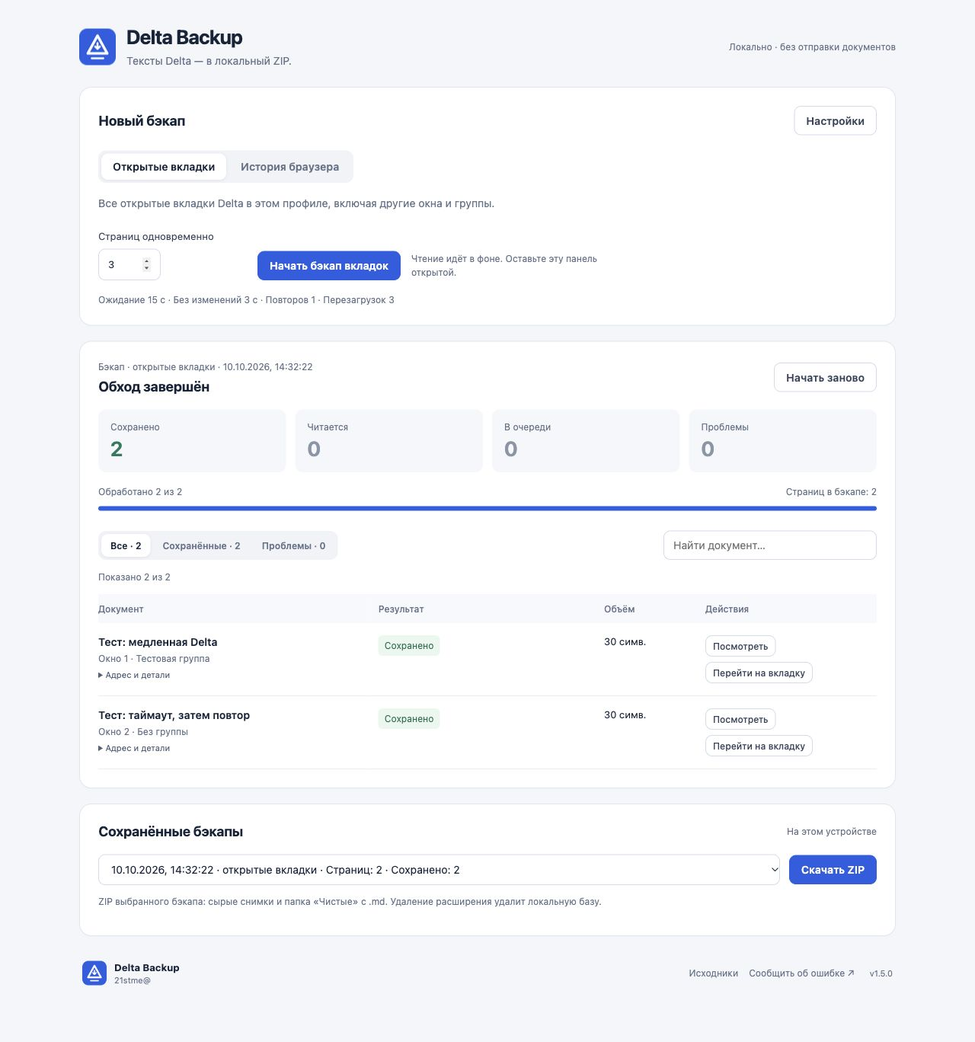
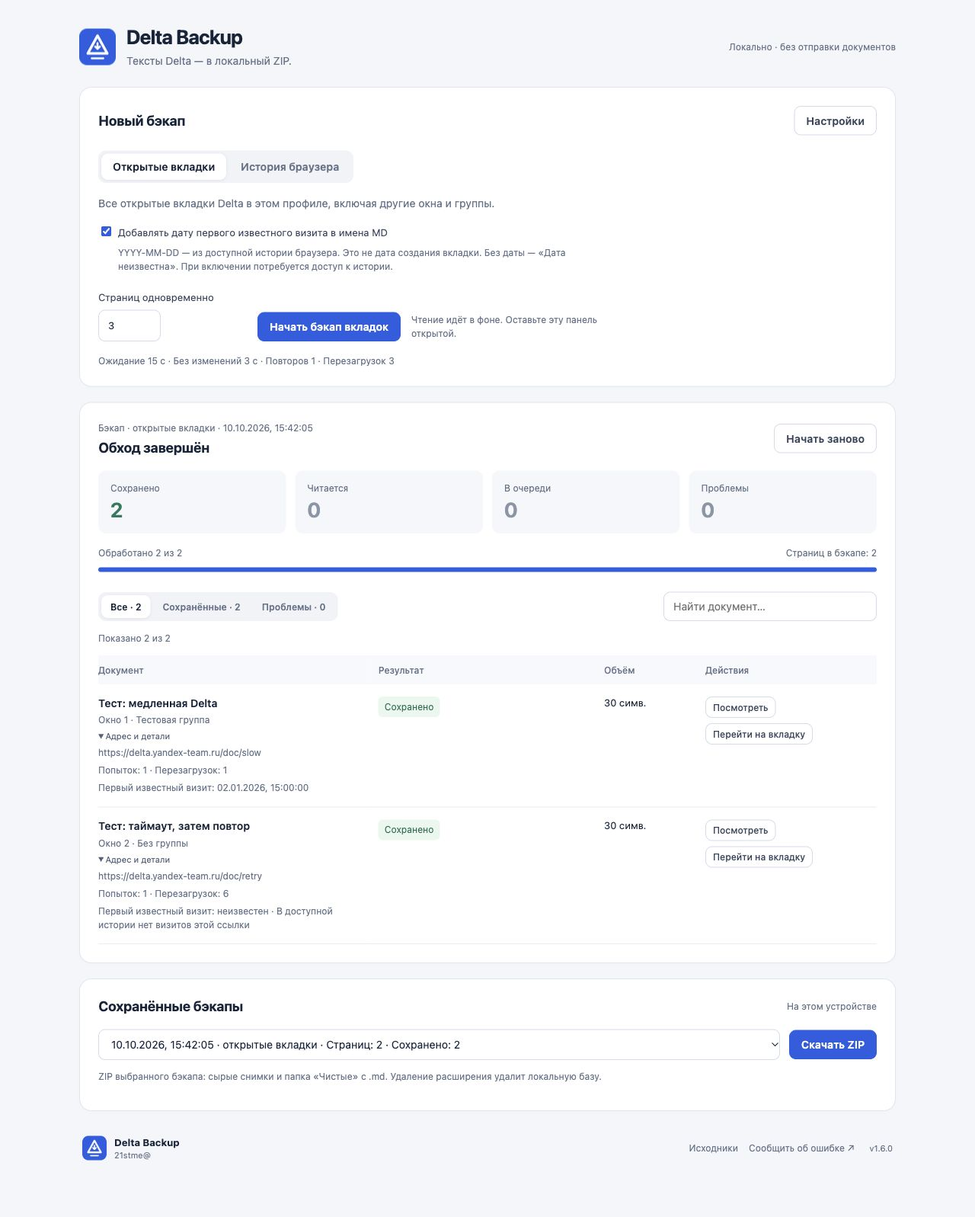
Add optional first-known-visit dates for open tab Markdown filenames

diff --git a/extension/dashboard.js b/extension/dashboard.js
@@ -7,7 +7,7 @@ import { createZip } from './zip.js';
 import { runBatch, createRunWriter } from './queue.js';
 import { restartBackup } from './restart.js';
 import { goToOriginalTab } from './navigation.js';
-import { historyPeriod, discoverHistory, historyEntries, withHistoryTab, historyLimitations, historyLinkFiles } from './browser-history.js';
+import { historyPeriod, discoverHistory, historyEntries, withHistoryTab, historyLimitations, historyLinkFiles, collectFirstVisits, firstVisitLimitations } from './browser-history.js';
 
 const $ = id => document.getElementById(id);
 const api = makeChromeAdapter();
@@ -29,11 +29,13 @@ let historyResult;
 let selectedHistory = new Set();
 let scanningHistory = false;
 let cancelHistory = false;
+let requestingFirstVisitAccess = false;
 const fail = error => { $('error').textContent = error?.message || String(error); };
 
 function getSettings() {
   const settings = {};
   for (const id of settingIds) settings[id] = $(id).value.trim();
+  settings.firstVisitDate = $('firstVisitDate').checked;
   for (const [id, low, high] of [['timeout', 10, 1800], ['stable', 3, 120], ['retries', 0, 5], ['maxReloads', 0, 5], ['concurrency', 1, 10]]) {
     const value = Number(settings[id]);
     if (!Number.isInteger(value) || value < low || value > high) throw new Error(`Проверьте настройку «${$(id).parentElement.firstChild.textContent.trim()}».`);
@@ -49,6 +51,7 @@ function getSettings() {
 }
 
 function showSettings(settings) {
+  $('firstVisitDate').checked = settings.firstVisitDate === true;
   for (const id of settingIds) {
     $(id).value = settings[id] ?? (({ timeout: 15, stable: 3, retries: 1, maxReloads: 3, concurrency: 3 })[id] ?? '');
   }
@@ -56,7 +59,7 @@ function showSettings(settings) {
 
 function updateControls() {
   const counts = pageCounts(run?.entries);
-  const backupRunning = working && activity === 'backup';
+  const backupRunning = working && ['backup', 'dates'].includes(activity);
   const canResume = run && run.state !== 'finished' && nextEntry(run);
   $('openSource').hidden = sourceMode !== 'open_tabs';
   $('historySource').hidden = sourceMode !== 'history';
@@ -64,17 +67,17 @@ function updateControls() {
   $('historyBackup').hidden = sourceMode !== 'history';
   $('sourceTabs').setAttribute('aria-pressed', String(sourceMode === 'open_tabs'));
   $('sourceHistory').setAttribute('aria-pressed', String(sourceMode === 'history'));
-  $('sourceTabs').disabled = $('sourceHistory').disabled = working;
-  $('start').disabled = working;
+  $('sourceTabs').disabled = $('sourceHistory').disabled = working || requestingFirstVisitAccess;
+  $('start').disabled = working || requestingFirstVisitAccess;
   $('restart').hidden = !run || working;
-  $('restart').disabled = working || !run;
+  $('restart').disabled = working || requestingFirstVisitAccess || !run;
   $('pause').hidden = !backupRunning;
   $('pause').disabled = !backupRunning || pauseRequested;
   $('pause').textContent = pauseRequested ? 'Завершаю шаг…' : 'Приостановить';
   $('resume').hidden = working || !canResume;
-  $('resume').disabled = working || !canResume;
+  $('resume').disabled = working || requestingFirstVisitAccess || !canResume;
   $('retryFailed').hidden = working || !counts.retryable;
-  $('retryFailed').disabled = working || !counts.retryable;
+  $('retryFailed').disabled = working || requestingFirstVisitAccess || !counts.retryable;
   $('retryFailed').textContent = `Повторить неудачные · ${counts.retryable}`;
   $('export').disabled = working || !run;
   $('history').disabled = working || !run;
@@ -92,6 +95,7 @@ function updateControls() {
   for (const id of ['historyRange', 'historyFrom', 'historyTo']) $(id).disabled = working;
   for (const checkbox of $('historyLinks').querySelectorAll('input')) checkbox.disabled = working;
   for (const id of settingIds) $(id).disabled = working;
+  $('firstVisitDate').disabled = working || requestingFirstVisitAccess;
   $('settingsSummary').textContent = `Ожидание ${$('timeout').value || '—'} с · Без изменений ${$('stable').value || '—'} с · Повторов ${$('retries').value || '0'} · Перезагрузок ${$('maxReloads').value || '0'}`;
   for (const [id, value] of [['filterAll', 'all'], ['filterSaved', 'saved'], ['filterProblems', 'problems']]) {
     $(id).disabled = !run;
@@ -116,7 +120,7 @@ function render(full = true) {
   const currentOption = [...$('history').options].find(option => option.value === run.id);
   if (currentOption) currentOption.textContent = backupLabel(run);
   $('runContext').textContent = `Бэкап · ${run.source === 'history' ? 'из истории' : 'открытые вкладки'} · ${new Date(run.createdAt).toLocaleString('ru-RU')}`;
-  $('status').textContent = activity === 'export' ? 'Готовлю ZIP' : activity === 'backup' ? (pauseRequested ? 'Завершаю текущий шаг…' : 'Читаю страницы Delta') : run.state === 'finished' ? 'Обход завершён' : 'Бэкап приостановлен';
+  $('status').textContent = activity === 'export' ? 'Готовлю ZIP' : activity === 'dates' ? (pauseRequested ? 'Завершаю поиск дат…' : 'Ищу даты первых известных визитов') : activity === 'backup' ? (pauseRequested ? 'Завершаю текущий шаг…' : 'Читаю страницы Delta') : run.state === 'finished' ? 'Обход завершён' : 'Бэкап приостановлен';
   for (const [id, field] of [['countSaved', 'saved'], ['countReading', 'reading'], ['countPending', 'pending'], ['countProblems', 'problems']]) {
     $(id).textContent = counts[field].toLocaleString('ru-RU');
     $(id).parentElement.classList.toggle('is-zero', counts[field] === 0);
@@ -125,7 +129,7 @@ function render(full = true) {
   $('runTotal').textContent = `Страниц в бэкапе: ${counts.total}`;
   $('runProgress').max = counts.total || 1;
   $('runProgress').value = counts.processed;
-  $('liveDetails').hidden = activity !== 'backup' || !detail;
+  $('liveDetails').hidden = !['backup', 'dates'].includes(activity) || !detail;
   $('progressDetails').textContent = detail;
   $('filterAll').textContent = `Все · ${counts.total}`;
   $('filterSaved').textContent = `Сохранённые · ${counts.saved}`;
@@ -146,6 +150,13 @@ function render(full = true) {
     const url = document.createElement('small'); url.className = 'document-url'; url.textContent = entry.url;
     const attempts = document.createElement('small'); attempts.textContent = `Попыток: ${entry.attempts || 0} · Перезагрузок: ${entry.reloadEvents?.length || 0}`;
     rowDetails.append(summary, url, attempts);
+    if ((entry.source || run.source) !== 'history' && run.settings.firstVisitDate) {
+      const visit = document.createElement('small');
+      const date = entry.firstVisitTime ? new Date(entry.firstVisitTime).toLocaleString('ru-RU') : 'неизвестен';
+      const reason = firstVisitLimitations[entry.firstVisitLookup?.status];
+      visit.textContent = `Первый известный визит: ${date}${reason ? ' · ' + reason : ''}`;
+      rowDetails.append(visit);
+    }
     const key = `${run.id}/${entry.id || entry.tabId || entry.index}`;
     rowDetails.open = expandedRows.has(key);
     rowDetails.addEventListener('toggle', () => { if (rowDetails.open) expandedRows.add(key); else expandedRows.delete(key); });
@@ -279,8 +290,26 @@ async function runLoop() {
   }
 }
 
+async function prepareFirstVisits() {
+  if (run.source === 'history' || !run.settings.firstVisitDate) return;
+  activity = 'dates'; detail = ''; render();
+  let allowed = false;
+  try { allowed = await chrome.permissions.contains({ permissions: ['history'] }); } catch {}
+  const getVisits = allowed && typeof chrome.history?.getVisits === 'function' ? props => chrome.history.getVisits(props) : undefined;
+  const result = await collectFirstVisits(run.entries, getVisits, {
+    concurrency: run.settings.concurrency, cancelled: () => pauseRequested,
+    unavailableReason: allowed ? 'api_unavailable' : 'permission_denied',
+    onProgress: async progress => { detail = `Даты проверены: ${progress.completed} из ${progress.total} уникальных ссылок`; render(false); }
+  });
+  run.entries = result.entries;
+  const { entries, ...summary } = result;
+  run.firstVisitDates = summary;
+  await saveRun(run);
+  activity = 'backup'; detail = ''; render();
+}
+
 async function begin(mode) {
-  if (working) return;
+  if (working || requestingFirstVisitAccess) return;
   $('error').textContent = ''; $('archiveStatus').textContent = ''; pauseRequested = false; working = true; activity = 'backup'; updateControls();
   try {
     await withLock(async () => {
@@ -316,7 +345,7 @@ async function begin(mode) {
         for (const entry of run.entries) if (entry.status === 'waiting') { entry.status = 'pending'; entry.attempts = Math.max(0, entry.attempts - 1); }
       }
       if (['new', 'restart', 'history'].includes(mode)) resetResultView();
-      showSettings(run.settings); await refreshHistory(); await runLoop();
+      showSettings(run.settings); await refreshHistory(); await prepareFirstVisits(); await runLoop();
     });
   } catch (error) {
     fail(error);
@@ -453,6 +482,15 @@ $('settingsToggle').addEventListener('click', () => {
 });
 $('sourceTabs').addEventListener('click', () => { sourceMode = 'open_tabs'; updateControls(); });
 $('sourceHistory').addEventListener('click', () => { sourceMode = 'history'; updateControls(); });
+$('firstVisitDate').addEventListener('change', async () => {
+  if (!$('firstVisitDate').checked) return;
+  requestingFirstVisitAccess = true; updateControls();
+  try {
+    // Request directly from the user gesture, before any history API call.
+    if (!await chrome.permissions.request({ permissions: ['history'] })) throw new Error('Доступ к истории не выдан. Даты первых визитов выключены; бэкап вкладок доступен.');
+  } catch (error) { $('firstVisitDate').checked = false; fail(error); }
+  finally { requestingFirstVisitAccess = false; updateControls(); }
+});
 for (const [id, filter] of [['filterAll', 'all'], ['filterSaved', 'saved'], ['filterProblems', 'problems']]) $(id).addEventListener('click', () => { resultFilter = filter; render(); });
 $('resultSearch').addEventListener('input', () => { searchQuery = $('resultSearch').value; render(); });
 for (const id of settingIds) $(id).addEventListener('input', updateControls);
@@ -476,7 +514,7 @@ $('history').addEventListener('change', async () => {
 async function init() {
   $('extensionVersion').textContent = `v${VERSION}`;
   const runs = await listRuns();
-  if (runs.length) run = runs[0];
+  if (runs.length) { run = runs[0]; showSettings(run.settings); }
   await refreshHistory(); render();
   try { if (await chrome.permissions.contains({ permissions: ['tabGroups'] })) $('groups').textContent = 'Названия групп разрешены'; } catch {}
 }

diff --git a/extension/dashboard.html b/extension/dashboard.html
@@ -16,7 +16,7 @@
     <section class="card launch-card" aria-labelledby="launchTitle">
       <div class="section-heading"><h2 id="launchTitle">Новый бэкап</h2><button id="settingsToggle" class="secondary" aria-expanded="false" aria-controls="settingsPanel">Настройки</button></div>
       <div class="source-tabs" role="group" aria-label="Источник нового бэкапа"><button id="sourceTabs" aria-pressed="true">Открытые вкладки</button><button id="sourceHistory" aria-pressed="false">История браузера</button></div>
-      <div id="openSource"><p class="source-description">Все открытые вкладки Delta в этом профиле, включая другие окна и группы.</p></div>
+      <div id="openSource"><p class="source-description">Все открытые вкладки Delta в этом профиле, включая другие окна и группы.</p><label class="date-option"><span><input id="firstVisitDate" type="checkbox">Добавлять дату первого известного визита в имена MD</span><small>YYYY-MM-DD — из доступной истории браузера. Это не дата создания вкладки. Без даты — «Дата неизвестна». При включении потребуется доступ к истории.</small></label></div>
       <div id="historySource" hidden>
         <p class="source-description">Найдите ссылки и выберите документы. Сохраняется текущий текст, а не версия на дату визита.</p>
         <div class="history-search"><label>Период истории<select id="historyRange"><option value="all">Вся доступная история</option><option value="7">Последние 7 дней</option><option value="30">Последние 30 дней</option><option value="90">Последние 90 дней</option><option value="custom">Свой период</option></select></label><button id="historyScan" class="secondary">Найти ссылки Delta</button><button id="historySearchStop" class="secondary" hidden disabled>Остановить поиск</button></div>
@@ -24,7 +24,7 @@
         <p id="historySummary" class="hint" role="status">Поиск ещё не запускался.</p>
         <div id="historySelection" class="actions" hidden><button id="historySelectAll" class="text-button" disabled>Выбрать все</button><button id="historySelectNone" class="text-button" disabled>Снять выбор</button><button id="historyExport" class="text-button" disabled>Выгрузить список URL</button></div>
         <div id="historyLinks" class="history-links"></div><p id="historyDownloadStatus" class="hint" role="status"></p>
-        <details class="compact-help"><summary>Доступ к истории</summary><p class="hint">При поиске браузер запрашивает доступ к истории профиля. Расширение сохраняет только ссылки точного домена delta.yandex-team.ru. Для открытых вкладок это разрешение не требуется.</p></details>
+        <details class="compact-help"><summary>Доступ к истории</summary><p class="hint">При поиске браузер запрашивает доступ к истории профиля. Расширение сохраняет только ссылки точного домена delta.yandex-team.ru. Для открытых вкладок это разрешение требуется только при включённой дате первого известного визита.</p></details>
       </div>
       <div class="launch-row"><label class="concurrency-field">Страниц одновременно<input id="concurrency" type="number" value="3" min="1" max="10"></label><div class="launch-action"><button id="start">Начать бэкап вкладок</button><button id="historyBackup" hidden disabled>Бэкап выбранных ссылок</button><span class="hint">Чтение идёт в фоне. Оставьте эту панель открытой.</span></div></div>
       <p id="settingsSummary" class="settings-summary"></p>
@@ -70,7 +70,7 @@
         <a href="https://github.com/21stme/delta-backup" target="_blank" rel="noopener noreferrer">Исходники</a>
         <a href="https://github.com/21stme/delta-backup/issues/new/choose" target="_blank" rel="noopener noreferrer">Сообщить об ошибке <span aria-hidden="true">↗</span></a>
       </nav>
-      <span class="contact-version" id="extensionVersion">v1.5.1</span>
+      <span class="contact-version" id="extensionVersion">v1.6.0</span>
     </footer>
   </main>
   <script type="module" src="dashboard.js"></script>

diff --git a/extension/browser-history.js b/extension/browser-history.js
@@ -119,3 +119,64 @@ export function historyLinkFiles(result) {
     { name: 'README.txt', data: 'Ссылки Delta из доступной истории браузера.\nПериод и полнота поиска: history-links.json.\nЭто список URL, а не сохранённое содержимое страниц. Для получения текста запустите бэкап выбранных ссылок.\nИстория не хранит прошлые версии документа; бэкап получает текущий текст.\n' }
   ];
 }
+
+// Only query the exact URLs of this inventory, before backup reads or reloads.
+// This is the earliest available visit, not the creation time of the current tab.
+export async function collectFirstVisits(entries, getVisits, options = {}) {
+  const { concurrency = 3, callTimeoutMs = 15000, maxDurationMs = 120000,
+    cancelled = () => false, onProgress = async () => {}, now = Date.now,
+    unavailableReason = 'api_unavailable' } = options;
+  const started = now();
+  const results = new Map();
+  const known = entry => ['found', 'not_found'].includes(entry.firstVisitLookup?.status);
+  for (const entry of entries) if (known(entry)) results.set(entry.url, {
+    firstVisitTime: entry.firstVisitTime, firstVisitLookup: structuredClone(entry.firstVisitLookup)
+  });
+  const urls = [...new Set(entries.filter(entry => !results.has(entry.url)).map(entry => entry.url))];
+  let cursor = 0, completed = 0, calls = 0;
+  await Promise.all(Array.from({ length: Math.min(urls.length, Math.max(1, Math.min(10, Math.floor(concurrency) || 1))) }, async () => {
+    while (cursor < urls.length) {
+      const url = urls[cursor++];
+      let status, firstVisitTime, timer;
+      if (!isDelta(url)) status = 'invalid_url';
+      else if (cancelled()) status = 'cancelled';
+      else if (now() - started >= maxDurationMs) status = 'time_limit';
+      else if (typeof getVisits !== 'function') status = unavailableReason;
+      else {
+        calls++;
+        try {
+          const remaining = maxDurationMs - (now() - started);
+          const deadlineStatus = remaining <= callTimeoutMs ? 'time_limit' : 'timeout';
+          const visits = await Promise.race([
+            Promise.resolve().then(() => getVisits({ url })),
+            new Promise((resolve, reject) => { timer = setTimeout(() => reject(new Error(deadlineStatus)), Math.max(1, Math.min(callTimeoutMs, remaining))); })
+          ]);
+          if (!Array.isArray(visits)) throw new Error('invalid_response');
+          for (const visit of visits) {
+            const time = visit?.visitTime;
+            if (Number.isFinite(time) && time > 0 && time <= started && Number.isFinite(new Date(time).getTime()) && (!firstVisitTime || time < firstVisitTime)) firstVisitTime = time;
+          }
+          status = firstVisitTime ? 'found' : visits.length ? 'invalid_response' : 'not_found';
+        } catch (error) {
+          status = ['timeout', 'time_limit', 'invalid_response'].includes(error?.message) ? error.message : 'api_error';
+        } finally { clearTimeout(timer); }
+      }
+      results.set(url, { firstVisitTime, firstVisitLookup: { status, checkedAt: new Date(now()).toISOString(), source: 'available_browser_history' } });
+      completed++;
+      await onProgress({ completed, total: urls.length });
+    }
+  }));
+  const enriched = entries.map(entry => ({ ...entry, ...results.get(entry.url) }));
+  return {
+    entries: enriched, checkedAt: new Date(now()).toISOString(), calls,
+    coverage: enriched.every(known) ? 'complete' : 'partial',
+    scope: 'earliest available visit for exact open-tab URLs; not tab creation time or guaranteed first-ever visit'
+  };
+}
+
+export const firstVisitLimitations = {
+  not_found: 'В доступной истории нет визитов этой ссылки', invalid_response: 'История не вернула корректное время визита',
+  api_error: 'Не удалось прочитать визиты этой ссылки', api_unavailable: 'Браузер не предоставляет API визитов',
+  permission_denied: 'Нет разрешения на чтение истории', timeout: 'Истёк лимит запроса визитов',
+  time_limit: 'Истёк общий лимит поиска дат', cancelled: 'Поиск даты приостановлен', invalid_url: 'Адрес не относится к Delta'
+};

diff --git a/extension/archive.js b/extension/archive.js
@@ -1,8 +1,8 @@
 import { VERSION, capturePath, safeName, statusLabel, reasons } from './core.js';
 
-function historyVisitDate(lastVisitTime) {
-  if (!Number.isFinite(lastVisitTime) || lastVisitTime <= 0) return 'Дата неизвестна';
-  const date = new Date(lastVisitTime);
+function visitDate(visitTime) {
+  if (!Number.isFinite(visitTime) || visitTime <= 0) return 'Дата неизвестна';
+  const date = new Date(visitTime);
   const year = date.getFullYear();
   if (!Number.isFinite(date.getTime()) || year > 9999) return 'Дата неизвестна';
   // Use the same browser-local calendar day as the history list, not UTC.
@@ -46,7 +46,8 @@ export async function archiveFiles(run, readCapture) {
       }
       report.entries[index].textFile = `${folder}/${textFile}`;
       const fromHistory = (entry.source || run.source) === 'history';
-      const clean = cleanTextFile(capture.text, entry.title, usedCleanNames, fromHistory ? historyVisitDate(entry.lastVisitTime) : '');
+      const datePrefix = fromHistory ? visitDate(entry.lastVisitTime) : run.settings?.firstVisitDate ? visitDate(entry.firstVisitTime) : '';
+      const clean = cleanTextFile(capture.text, entry.title, usedCleanNames, datePrefix);
       files.push({ name: clean.name, data: clean.data });
       report.entries[index].cleanFile = clean.name;
       report.entries[index].cleanTitle = clean.title;

diff --git a/extension/dashboard.css b/extension/dashboard.css
@@ -26,4 +26,5 @@ details { margin-top: 16px; } summary { cursor: pointer; color: #53617a; font-si
 @media(max-width:760px) { main { padding: 0 14px 24px; margin-top: 20px; } .card { padding: 18px; } .privacy-note { display: none; } .stats { grid-template-columns: repeat(2,1fr); } .section-heading { align-items: flex-start; flex-wrap: wrap; } .launch-row { flex-wrap: wrap; gap: 16px; } .concurrency-field { flex-basis: 100%; } .launch-action { align-items: flex-start; } .grid { grid-template-columns: 1fr; } .results-toolbar { align-items: stretch; flex-direction: column; } #resultSearch { max-width: none; } .filter-tabs { align-self: flex-start; } .history-search label { width: 100%; min-width: 0; } .contact-links { order: 3; width: 100%; } }
 
 .stat.is-zero strong { color: #8a95a7; }
+.date-option { max-width: 640px; margin-bottom: 16px; } .date-option span { display: flex; align-items: baseline; } .date-option small { margin-left: 26px; }
 @media(max-width:760px) { .source-tabs { display: flex; } .source-tabs button { flex: 1; padding: 8px 9px; font-size: 12px; } }

diff --git a/extension/core.js b/extension/core.js
@@ -1,5 +1,5 @@
 export const ORIGIN = 'https://delta.yandex-team.ru';
-export const VERSION = '1.5.1';
+export const VERSION = '1.6.0';
 export function isDelta(url) {
   try { return new URL(url).origin === ORIGIN; } catch { return false; }
 }

diff --git a/docs/usage.md b/docs/usage.md
@@ -20,6 +20,7 @@
 | Повторы после прохода | 1 | Дополнительная попытка для неуспешных страниц после первого прохода |
 | Перезагрузки | 3 | Максимум на попытку при затянувшейся загрузке или просьбе Delta |
 | Страниц одновременно | 3 | Число параллельных чтений, от 1 до 10 |
+| Дата первого известного визита | Выключена | Префикс YYYY-MM-DD в именах Markdown открытых вкладок, по доступной истории |
 
 При продолжающейся загрузке с заводскими настройками: 15 с → reload → 15 с → reload → 15 с → reload → 15 с → таймаут. Повтор после первого прохода начинает новую попытку. Пустой или меняющийся текст без индикатора загрузки по таймеру автоматически не перезагружается.
 
@@ -44,6 +45,16 @@ CSS-селекторы основного текста, готовности и 
 
 Для чтения каждого URL создаётся временная фоновая вкладка. После попытки она закрывается, если сохранила исходный URL и не была активирована или закреплена вами. При сбое или закрытии панели временные вкладки могут остаться. Открытие страниц создаёт новые обычные визиты в истории. История не удаляется и не переписывается.
 
+## Даты открытых вкладок
+
+В режиме **«Открытые вкладки»** включите **«Добавлять дату первого известного визита в имена MD»** перед запуском нового бэкапа, продолжением или ручным повтором. Разрешение `history` запрашивается по вашему нажатию; при отказе опция выключается, обычный бэкап остаётся доступен.
+
+До чтения и перезагрузок расширение вызывает `history.getVisits()` только для точных URL открытых вкладок Delta, без общего поиска истории. Одинаковые URL используют один запрос, но каждая вкладка сохраняется отдельно. Query и fragment не объединяются. Выбирается минимальное корректное время из доступных визитов. Это **первый известный визит**, не гарантированное первое посещение за всё время и не время создания нынешней вкладки. Удалённые/устаревшие записи и другой профиль недоступны.
+
+Даты и причины отсутствия сохраняются в бэкапе (`firstVisitTime`, `firstVisitLookup`, `firstVisitDates`) и показываются в **«Адрес и детали»**. Запрос ограничен 15 секундами, весь этап — 120 секундами, параллельность — настройкой «Страниц одновременно». Ошибка, отозванное разрешение или таймаут поиска даты не препятствуют чтению текста: имя получает «Дата неизвестна». Пауза прекращает новые запросы; найденные даты и проверенное отсутствие визитов сохраняются при продолжении/повторе. Неуспешные запросы можно повторить при продолжении или ручном повторе страниц.
+
+Опция записывается в параметры выбранного бэкапа. Экспорт использует его сохранённые параметры и даты без нового чтения истории. Для старого завершённого бэкапа без дат запустите **«Начать заново»** с включённой опцией; прежний архив останется доступен.
+
 ## Чтение и сохранение
 
 Расширение пытается получить полную доступную модель Ace, Monaco или CodeMirror 5. При невозможности используется текст страницы. Прокрутка и раскрытие блоков отсутствуют; скрытые/виртуализированные строки, недоступные iframe и модели могут ограничить извлечение. Для единственного соответствующего Ace сохранение полной модели не дублирует отрисованные строки.
@@ -54,6 +65,6 @@ CSS-селекторы основного текста, готовности и 
 
 ## ZIP
 
-У каждой исходной вкладки собственная сырая папка; одинаковые URL вкладок не удаляются. В «Чистые» каждому доступному снимку соответствует один `.md` с точным сохранённым текстом. Для истории имя начинается с даты последнего визита: `YYYY-MM-DD - первая строка.md`. Дата берётся из `lastVisitTime`, сохранённого при поиске ссылок, по часовому поясу браузера; время бэкапа и его служебное открытие страницы её не заменяют. При неизвестной/некорректной дате используется префикс `Дата неизвестна -`. Для открытых вкладок дата в имя не добавляется. Небезопасные символы имени заменяются, длинные имена ограничиваются; совпадения без учёта регистра и после Unicode NFC получают номера. Для пустого текста используется название вкладки или «Без названия». `cleanFile` в `report.json` связывает Markdown с исходной записью.
+У каждой исходной вкладки собственная сырая папка; одинаковые URL вкладок не удаляются. В «Чистые» каждому доступному снимку соответствует один `.md` с точным сохранённым текстом. Для истории имя начинается с даты последнего визита: `YYYY-MM-DD - первая строка.md`. Дата берётся из `lastVisitTime`, сохранённого при поиске ссылок, по часовому поясу браузера; время бэкапа и его служебное открытие страницы её не заменяют. При неизвестной/некорректной дате используется префикс `Дата неизвестна -`. Для открытых вкладок дата первого известного визита добавляется только с включённой опцией: `YYYY-MM-DD - первая строка.md`, в часовом поясе браузера; без даты — «Дата неизвестна». Без опции, в том числе в старых бэкапах, сохраняются прежние имена. Небезопасные символы имени заменяются, длинные имена ограничиваются; совпадения без учёта регистра и после Unicode NFC получают номера. Для пустого текста используется название вкладки или «Без названия». `cleanFile` в `report.json` связывает Markdown с исходной записью.
 
 ZIP формируется в памяти, без сжатия и ZIP64: максимум около 4 ГБ и 65 535 файлов, память может закончиться раньше. `partial.txt` и `partial:true` обозначают незавершённую процедуру, а не доказанную обрезку текста. Экспорт не предназначен для обратного импорта в Delta.

diff --git a/README.md b/README.md
@@ -1,6 +1,6 @@
 # <img src="docs/images/icon.png" alt="" width="32" height="32"> Delta Backup
 
-Локальный бэкап текстов открытых вкладок [Delta](https://delta.yandex-team.ru/) для Яндекс Браузера и Google Chrome. Текущая версия: **1.5.1**.
+Локальный бэкап текстов открытых вкладок [Delta](https://delta.yandex-team.ru/) для Яндекс Браузера и Google Chrome. Текущая версия: **1.6.0**.
 
 ![Панель Delta Backup на синтетических данных](docs/images/dashboard.png)
 
@@ -11,6 +11,7 @@
 - Обрабатывает несколько страниц одновременно. Есть пауза, продолжение, новый проход и повтор ошибок.
 - Хранит результаты в локальной базе и показывает сохранённые бэкапы.
 - Отдельно ищет ссылки Delta в истории браузера и сохраняет текущий текст выбранных документов.
+- По желанию добавляет в имена Markdown открытых вкладок дату первого известного визита из доступной истории.
 - Выгружает ZIP: сырые снимки, отчёт и плоскую папку **«Чистые»** с `.md`.
 
 Обработка выполняется на компьютере: без AI, отправки документов на серверы или сторонних библиотек. Переход по ссылкам GitHub в панели открывает внешний сайт по вашему нажатию.
@@ -35,6 +36,8 @@
 
 Настройки по умолчанию: ожидание **15 с**, текст без изменений **3 с**, **1** повтор после первого прохода, до **3** перезагрузок на попытку и **3** страницы одновременно. Чтение готовой страницы заканчивается раньше лимита, если текст перестал меняться. После каждой перезагрузки начинается новый полный лимит.
 
+Для дат в именах файлов вкладок включите **«Добавлять дату первого известного визита в имена MD»** перед запуском. Браузер запросит доступ к истории. Дата — самый ранний сохранившийся визит по этой ссылке, а не время открытия нынешней вкладки; удалённая история может сделать её более поздней. Без доступной даты — «Дата неизвестна».
+
 Для истории переключите источник на **«История браузера»**, найдите ссылки, выберите документы и нажмите **«Бэкап выбранных ссылок»**. История содержит URL; расширение сохраняет **текущую** страницу, а не версию документа на дату визита.
 
 ## Панель
@@ -49,7 +52,7 @@
 
 ## Что в архиве
 
-- `Чистые/*.md` — по одному файлу на каждый доступный сохранённый текст. Для вкладок название — первая непустая строка. Для истории — `YYYY-MM-DD - первая строка.md`: дата последнего визита из сохранённой записи истории, по часовому поясу браузера. При отсутствии даты — `Дата неизвестна - первая строка.md`. При совпадении добавляется номер. Текст и разметка Delta не переписываются.
+- `Чистые/*.md` — по одному файлу на каждый доступный сохранённый текст. Для вкладок название — первая непустая строка; с включённой опцией первого визита — `YYYY-MM-DD - первая строка.md`. Для истории — `YYYY-MM-DD - первая строка.md`: дата последнего визита из сохранённой записи истории, по часовому поясу браузера. При отсутствии даты — `Дата неизвестна - первая строка.md`. При совпадении добавляется номер. Текст и разметка Delta не переписываются.
 - `Окно-…/Группа…/…/` или `История/…/` — сырые `text.txt` / `partial.txt`, `capture.json` и снимки.
 - `index.txt` и `report.json` — список страниц, статусы, параметры и соответствие сырых и чистых файлов.
 
@@ -70,7 +73,7 @@ npm test
 npm run build
 ```
 
-Сборка появится в `dist/delta-backup-extension-1.5.1.zip`. Скрипт проверяет версии, CRC и совпадение файлов с исходниками. В архив включается только расширение и пользовательская документация.
+Сборка появится в `dist/delta-backup-extension-1.6.0.zip`. Скрипт проверяет версии, CRC и совпадение файлов с исходниками. В архив включается только расширение и пользовательская документация.
 
 ```text
 extension/   Manifest V3, панель, сборщик, очередь и ZIP
@@ -80,7 +83,7 @@ scripts/    сборка ZIP
 .github/    шаблон багрепорта
 ```
 
-77 автоматических тестов покрывают загрузку, повторные попытки, историю, очередь, сохранение текста и экспорт. Панель и ZIP дополнительно проверены во встроенном браузере Codex с имитацией API расширения. Нативная работа установленного расширения в Яндекс Браузере и Chrome пока не подтверждена этим тестированием.
+85 автоматических тестов покрывают загрузку, повторные попытки, историю, очередь, сохранение текста и экспорт. Панель и ZIP дополнительно проверены во встроенном браузере Codex с имитацией API расширения. Нативная работа установленного расширения в Яндекс Браузере и Chrome пока не подтверждена этим тестированием.
 
 ## Автор и обратная связь
 

diff --git a/CHANGELOG.md b/CHANGELOG.md
@@ -1,5 +1,12 @@
 # Журнал изменений
 
+## 1.6.0
+
+- Необязательная дата первого известного визита для имён Markdown открытых вкладок. По умолчанию выключена; включение запрашивает доступ к истории.
+- Точечный поиск по URL до чтения и перезагрузок, объединение запросов одинаковых ссылок, ограниченное ожидание и пауза.
+- Даты и причины отсутствия сохраняются в бэкапе и деталях страницы. При недоступной дате — «Дата неизвестна»; текст продолжает сохраняться.
+- Продолжение/повтор сохраняют известные даты; ZIP использует сохранённые параметры, не перечитывая историю. Даты истории остаются датами последних визитов.
+
 ## 1.5.1
 
 - Markdown-файлы истории получают дату последнего визита в начале имени: `YYYY-MM-DD - первая строка.md`.
